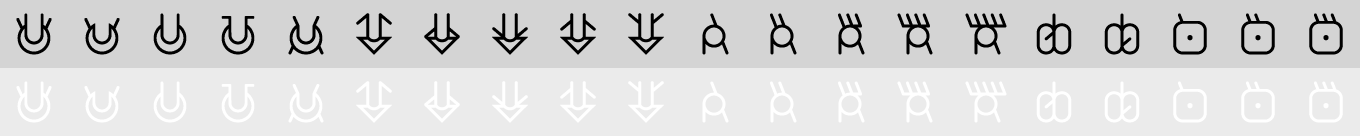
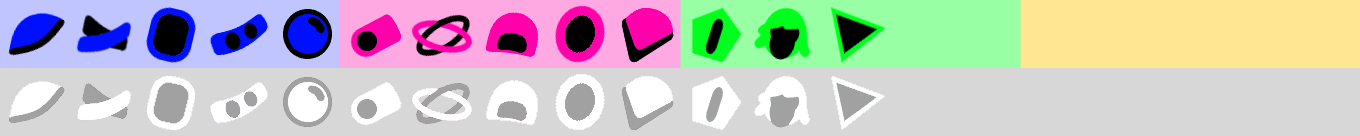
working on the demo

diff --git a/asset-v1/app.js b/asset-v1/app.js
@@ -1,104 +1,86 @@
-/* 0.5.4 2021-04-23 21:06:13 */
+/* 0.5.4 2022-11-UNRELEASED ??:??:?? */
 var app = new function() {
-    this.name = "Alpha", this.version = "1", this.date = "2009", this.folder = "asset-v1/", this.looptime = 5333, this.bpm = 90, this.totalframe = 260, this.nbpolo = 7, this.nbloopbonus = 2, this.bonusloopA = !1, this.bonusendloopA = !1, this.recmaxloop = 34, this.recminloop = 4, this.recmintime = Math.round(this.looptime / 1e3) * this.recminloop, this.spritepolo = "polo-sprite.png", this.spritepicto = "game-picto.png", this.colBck = "#121212", this.col0 = "#919191", this.col1 = "#5f5f5f", this.col2 = "#4b4b4b", this.col3 = "#373737", this.col4 = "#232323", this.animearray = [{
-        name: "1_lead",
-        color: "828282",
+    this.name = "Paradisky", this.version = "1", this.date = "2022", this.folder = "asset-v1/", this.looptime = 6696, this.bpm = 130, this.totalframe = 260, this.nbpolo = 7, this.nbloopbonus = 8, this.bonusloopA = !0, this.bonusendloopA = !8, this.recmaxloop = 48, this.recminloop = 6, this.recmintime = Math.round(this.looptime / 1e3) * this.recminloop, this.spritepolo = "polo-sprite.png", this.spritepicto = "game-picto.png", this.colBck = "#121212", this.col0 = "#919191", this.col1 = "#5f5f5f", this.col2 = "#4b4b4b", this.col3 = "#373737", this.col4 = "#232323", this.animearray = [{
+        name: "1_armon",
+        color: "0000ff",
         uniqsnd: !0
     }, {
-        name: "2_deux",
-        color: "828282",
+        name: "2_kick",
+        color: "0000ff",
         uniqsnd: !0
     }, {
-        name: "3_kosh",
-        color: "828282",
+        name: "3_scutzi",
+        color: "0000ff",
         uniqsnd: !0
     }, {
-        name: "4_shpok",
-        color: "828282",
+        name: "4_cymbaul",
+        color: "0000ff",
         uniqsnd: !0
     }, {
-        name: "5_tom",
-        color: "828282",
+        name: "5_kcu",
+        color: "0000ff",
         uniqsnd: !0
     }, {
-        name: "6_nouana",
-        color: "828282",
+        name: "6_slapbass",
+        color: "f200ff",
+        uniqsnd: !1
+    }, {
+        name: "7_clickbash",
+        color: "f200ff",
+        uniqsnd: !1
+    }, {
+        name: "8_clappa",
+        color: "f200ff",
         uniqsnd: !0
     }, {
-        name: "7_scratch",
-        color: "828282",
+        name: "9_tom",
+        color: "f200ff",
         uniqsnd: !0
     }, {
-        name: "8_trill",
-        color: "828282",
+        name: "10_guito",
+        color: "f200ff",
+        uniqsnd: !1
+    }, {
+        name: "11_square",
+        color: "00f715",
+        uniqsnd: !1
+    }, {
+        name: "12_vio",
+        color: "00f715",
+        uniqsnd: !1
+    }, {
+        name: "13_bling",
+        color: "00f715",
+        uniqsnd: !1
+    }, {
+        name: "14_demoend",
+        color: "00f715",
         uniqsnd: !0
     }, {
-        name: "9_bass",
-        color: "828282",
+        name: "15_demoend",
+        color: "00f715",
         uniqsnd: !0
     }, {
-        name: "10_uh",
-        color: "828282",
+        name: "16_demoend",
+        color: "f5c000",
         uniqsnd: !0
     }, {
-        name: "11_nugu",
-        color: "828282",
+        name: "17_demoend",
+        color: "f5c000",
         uniqsnd: !0
     }, {
-        name: "12_guit",
-        color: "828282",
+        name: "18_demoend",
+        color: "f5c000",
         uniqsnd: !0
     }, {
-        name: "13_tromp",
-        color: "828282",
+        name: "19_demoend",
+        color: "f5c000",
         uniqsnd: !0
     }, {
-        name: "14_pouin",
-        color: "828282",
+        name: "20_demoend",
+        color: "f5c000",
         uniqsnd: !0
-    }, {
-        name: "15_tung",
-        color: "828282",
-        uniqsnd: !0
-    }, {
-        name: "16_aoun",
-        color: "828282",
-        uniqsnd: !0
-    }, {
-        name: "17_hum",
-        color: "828282",
-        uniqsnd: !0
-    }, {
-        name: "18_get",
-        color: "828282",
-        uniqsnd: !0
-    }, {
-        name: "19_tellme",
-        color: "828282",
-        uniqsnd: !0
-    }, {
-        name: "20_make",
-        color: "828282",
-        uniqsnd: !0
-    }], this.bonusarray = [{
-        name: "The Choir",
-        src: "v1-b1-choir-hb.mp4",
-        code: "2,4,8,11,15",
-        sound: "bonus-choir",
-        aspire: "aspire"
-    }, {
-        name: "The Sailor",
-        src: "v1-b2-sailor-hb.mp4",
-        code: "10,11,14,15,20",
-        sound: "bonus-sailor",
-        aspire: "aspire-sailor"
-    }, {
-        name: "Santa",
-        src: "v1-b3-santa-hb.mp4",
-        code: "1,9,13,14,16",
-        sound: "bonus-santa",
-        aspire: "aspire-santa"
-    }];
+    }], this.bonusarray = [/*No bonus lol*/];
     for (var n = 0, o = this.animearray.length; n < o; n++) {
         var a = this.animearray[n].name;
         this.animearray[n].soundA = a + "_a", this.animearray[n].soundB = this.animearray[n].uniqsnd ? a + "_a" : a + "_b", this.animearray[n].anime = a + "-sprite.png", this.animearray[n].animeData = a + ".json"
